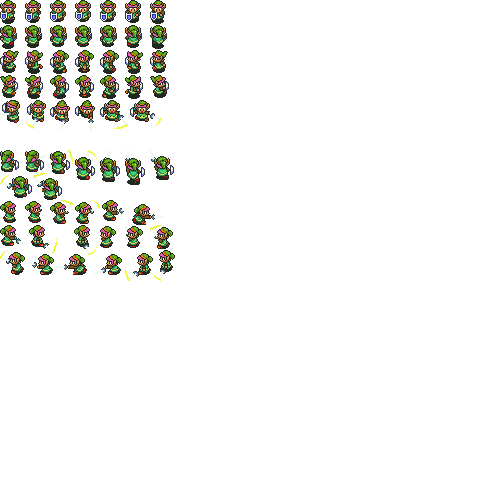
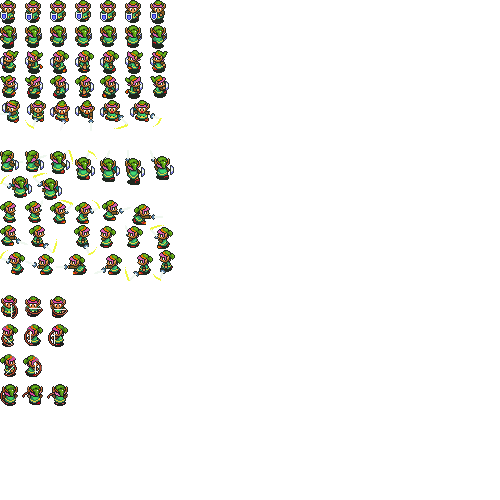
Bowstate added to game

Changed region(s): [[0.0, 0.57, 0.15, 0.81]]

diff --git a/zelda/link/BowState.java b/zelda/link/BowState.java
@@ -1,0 +1,196 @@
+package zelda.link;
+
+import java.awt.Rectangle;
+import zelda.karacter.Direction;
+
+/**
+ * State for when link is using the bow.
+ *
+ * @author frankie
+ */
+public class BowState extends LinkState
+{
+	private final static String[] downAnimation	= {"Link bow down 1", "Link bow down 2","Link bow down 3"};
+	private final static String[] upAnimation	= {"Link bow up 1", "Link bow up 2","Link bow up 3"};
+	private final static String[] leftAnimation	= {"Link bow left 1", "Link bow left 2","Link bow left 3"};
+	private final static String[] rightAnimation= {"Link bow right 1", "Link bow right 2"};
+
+    private Rectangle bow;
+
+	private int oldX, oldY;
+	private long oldAnimationInterval;
+
+	public BowState(Link link)
+	{
+		super(link);
+		name = "BowState";
+
+        oldX = link.getX();
+		oldY = link.getY();
+		oldAnimationInterval = link.getAnimationInterval();
+		link.setCheckcollision(false);
+
+		switch (link.getDirection())
+		{
+			case UP:
+				link.setAnimation(upAnimation);
+                link.setAnimationInterval(20);
+				bow = new Rectangle(oldX - 10, oldY - 10, 30, 10);
+				break;
+
+			case DOWN:
+				link.setAnimation(downAnimation);
+                link.setAnimationInterval(30);
+				bow = new Rectangle(oldX, oldY + link.getHeight(), 25, 10);
+				break;
+
+			case LEFT:
+				link.setAnimation(leftAnimation);
+                link.setAnimationInterval(20);
+				bow = new Rectangle(oldX - 10, oldY, 20, 30);
+				break;
+
+			case RIGHT:
+				link.setAnimation(rightAnimation);
+                link.setAnimationInterval(20);
+				bow = new Rectangle(oldX + link.getWidth(), oldY, 13, 28);
+				break;
+		}
+	}
+
+    public Rectangle getBow()
+	{
+		return bow;
+	}
+
+    @Override
+	public void handleAnimation()
+	{
+		int animationCounter = link.getAnimationCounter();
+
+		//System.out.println("Animation Counter is " + animationCounter);
+
+		//sword is done swinging revert back to former state
+		if (animationCounter == link.getAnimation().length)
+		{
+			link.setY(oldY);
+			link.setX(oldX);
+			link.setAnimationInterval(oldAnimationInterval);
+			link.setCheckcollision(true);
+			link.setState(new StandState(link));
+		}
+		else
+		{
+			// This section of the code corrects the position of link when he's striking.
+			// If you don't do this link appears to be moving when he swings his sword.
+			// Go ahead and remove the entire body of this else statement. You'll see what i mean.
+
+			Direction dir = link.getDirection();
+
+			if (dir == Direction.UP)
+			{
+				switch(animationCounter)
+				{
+					case 0:
+						link.setY(link.getY() + 1);
+						break;
+
+					case 2:
+						link.setY(link.getY() - 2);
+						break;
+
+					case 3:
+						link.setY(link.getY() - 6);
+						break;
+
+					case 4:
+						link.setY(link.getY() - 1);
+						break;
+
+					case 6:
+						link.setY(link.getY() + 2);
+						link.setX(link.getX() - 4);
+						break;
+
+					case 7:
+						link.setY(link.getY() + 2);
+						link.setX(link.getX() - 6);
+						break;
+
+					case 8:
+						link.setY(link.getY() + 3);
+						link.setX(link.getX() - 2);
+						break;
+				}
+			}
+			else if (dir == Direction.LEFT)
+			{
+				switch(animationCounter)
+				{
+					case 0:
+						link.setY(link.getY() - 1);
+						link.setX(link.getX() + 3);
+						break;
+
+					case 1:
+						link.setX(link.getX() - 2);
+						break;
+
+					case 2:
+						link.setY(link.getY() - 1);
+						link.setX(link.getX() - 5);
+						break;
+
+					case 3:
+						link.setX(link.getX() - 2);
+						break;
+
+					case 4:
+						link.setY(link.getY() + 2);
+						link.setX(link.getX() - 4);
+						break;
+
+					case 6:
+						link.setX(link.getX() + 1);
+						break;
+
+					case 8:
+						link.setX(link.getX() + 6);
+						break;
+				}
+			}
+			else if(dir == Direction.DOWN)
+			{
+				switch(animationCounter)
+				{
+					case 0:
+						link.setX(link.getX() - 4);
+						break;
+
+					case 1:
+						link.setX(link.getX() - 1);
+						break;
+
+					case 2:
+						link.setX(link.getX() + 1);
+						break;
+				}
+			}
+		}
+	}
+
+
+	@Override
+	public void handleInput()
+	{
+		if (link.ismPressed())
+		{
+			link.setState(new BowState(link));
+		}
+		else
+		{
+			if (link.moveinput())
+				link.setState(new WalkState(link));
+		}
+	}
+}

diff --git a/zelda/link/Link.java b/zelda/link/Link.java
@@ -21,6 +21,7 @@ public class Link extends Karacter
 	private boolean jPressed = false;
 	private boolean kPressed = false;
 	private boolean lPressed = false;
+    private boolean mPressed = false;
 
 	private long inputInterval = 50;
 	private long lastInput = System.currentTimeMillis();
@@ -96,6 +97,22 @@ public class Link extends Karacter
 		spriteLoc.put("Link sword left 7",		new Rectangle(94, 254, 28, 21));
 		spriteLoc.put("Link sword left 8",		new Rectangle(125, 253, 28, 28));
 		spriteLoc.put("Link sword left 9",		new Rectangle(153, 250, 22, 31));
+
+        spriteLoc.put("Link bow down 1",		new Rectangle(100, 225, 16, 23));
+		spriteLoc.put("Link bow down 2",		new Rectangle(125, 225, 18, 23));
+		spriteLoc.put("Link bow down 3",		new Rectangle(150, 225, 23, 24));
+
+        spriteLoc.put("Link bow left 1",		new Rectangle(100, 225, 16, 23));
+		spriteLoc.put("Link bow left 2",		new Rectangle(125, 225, 18, 23));
+		spriteLoc.put("Link bow left 3",		new Rectangle(150, 225, 23, 24));
+
+        spriteLoc.put("Link bow right 1",		new Rectangle(100, 225, 16, 23));
+		spriteLoc.put("Link bow right 2",		new Rectangle(125, 225, 18, 23));
+
+        spriteLoc.put("Link bow up 1",          new Rectangle(100, 225, 16, 23));
+		spriteLoc.put("Link bow up 2",          new Rectangle(125, 225, 18, 23));
+		spriteLoc.put("Link bow up 3",          new Rectangle(150, 225, 23, 24));
+
 		
 		sprite.setSprite(spriteLoc.get("Link stand down"));
 
@@ -173,6 +190,11 @@ public class Link extends Karacter
 		this.wPressed = wPressed;
 	}
 
+    public void setmPressed(boolean mPressed)
+	{
+		this.mPressed = mPressed;
+	}
+
 	public boolean isaPressed()
 	{
 		return aPressed;
@@ -186,6 +208,11 @@ public class Link extends Karacter
 	public boolean isjPressed()
 	{
 		return jPressed;
+	}
+
+    public boolean ismPressed()
+	{
+		return mPressed;
 	}
 
 	public boolean iskPressed()
